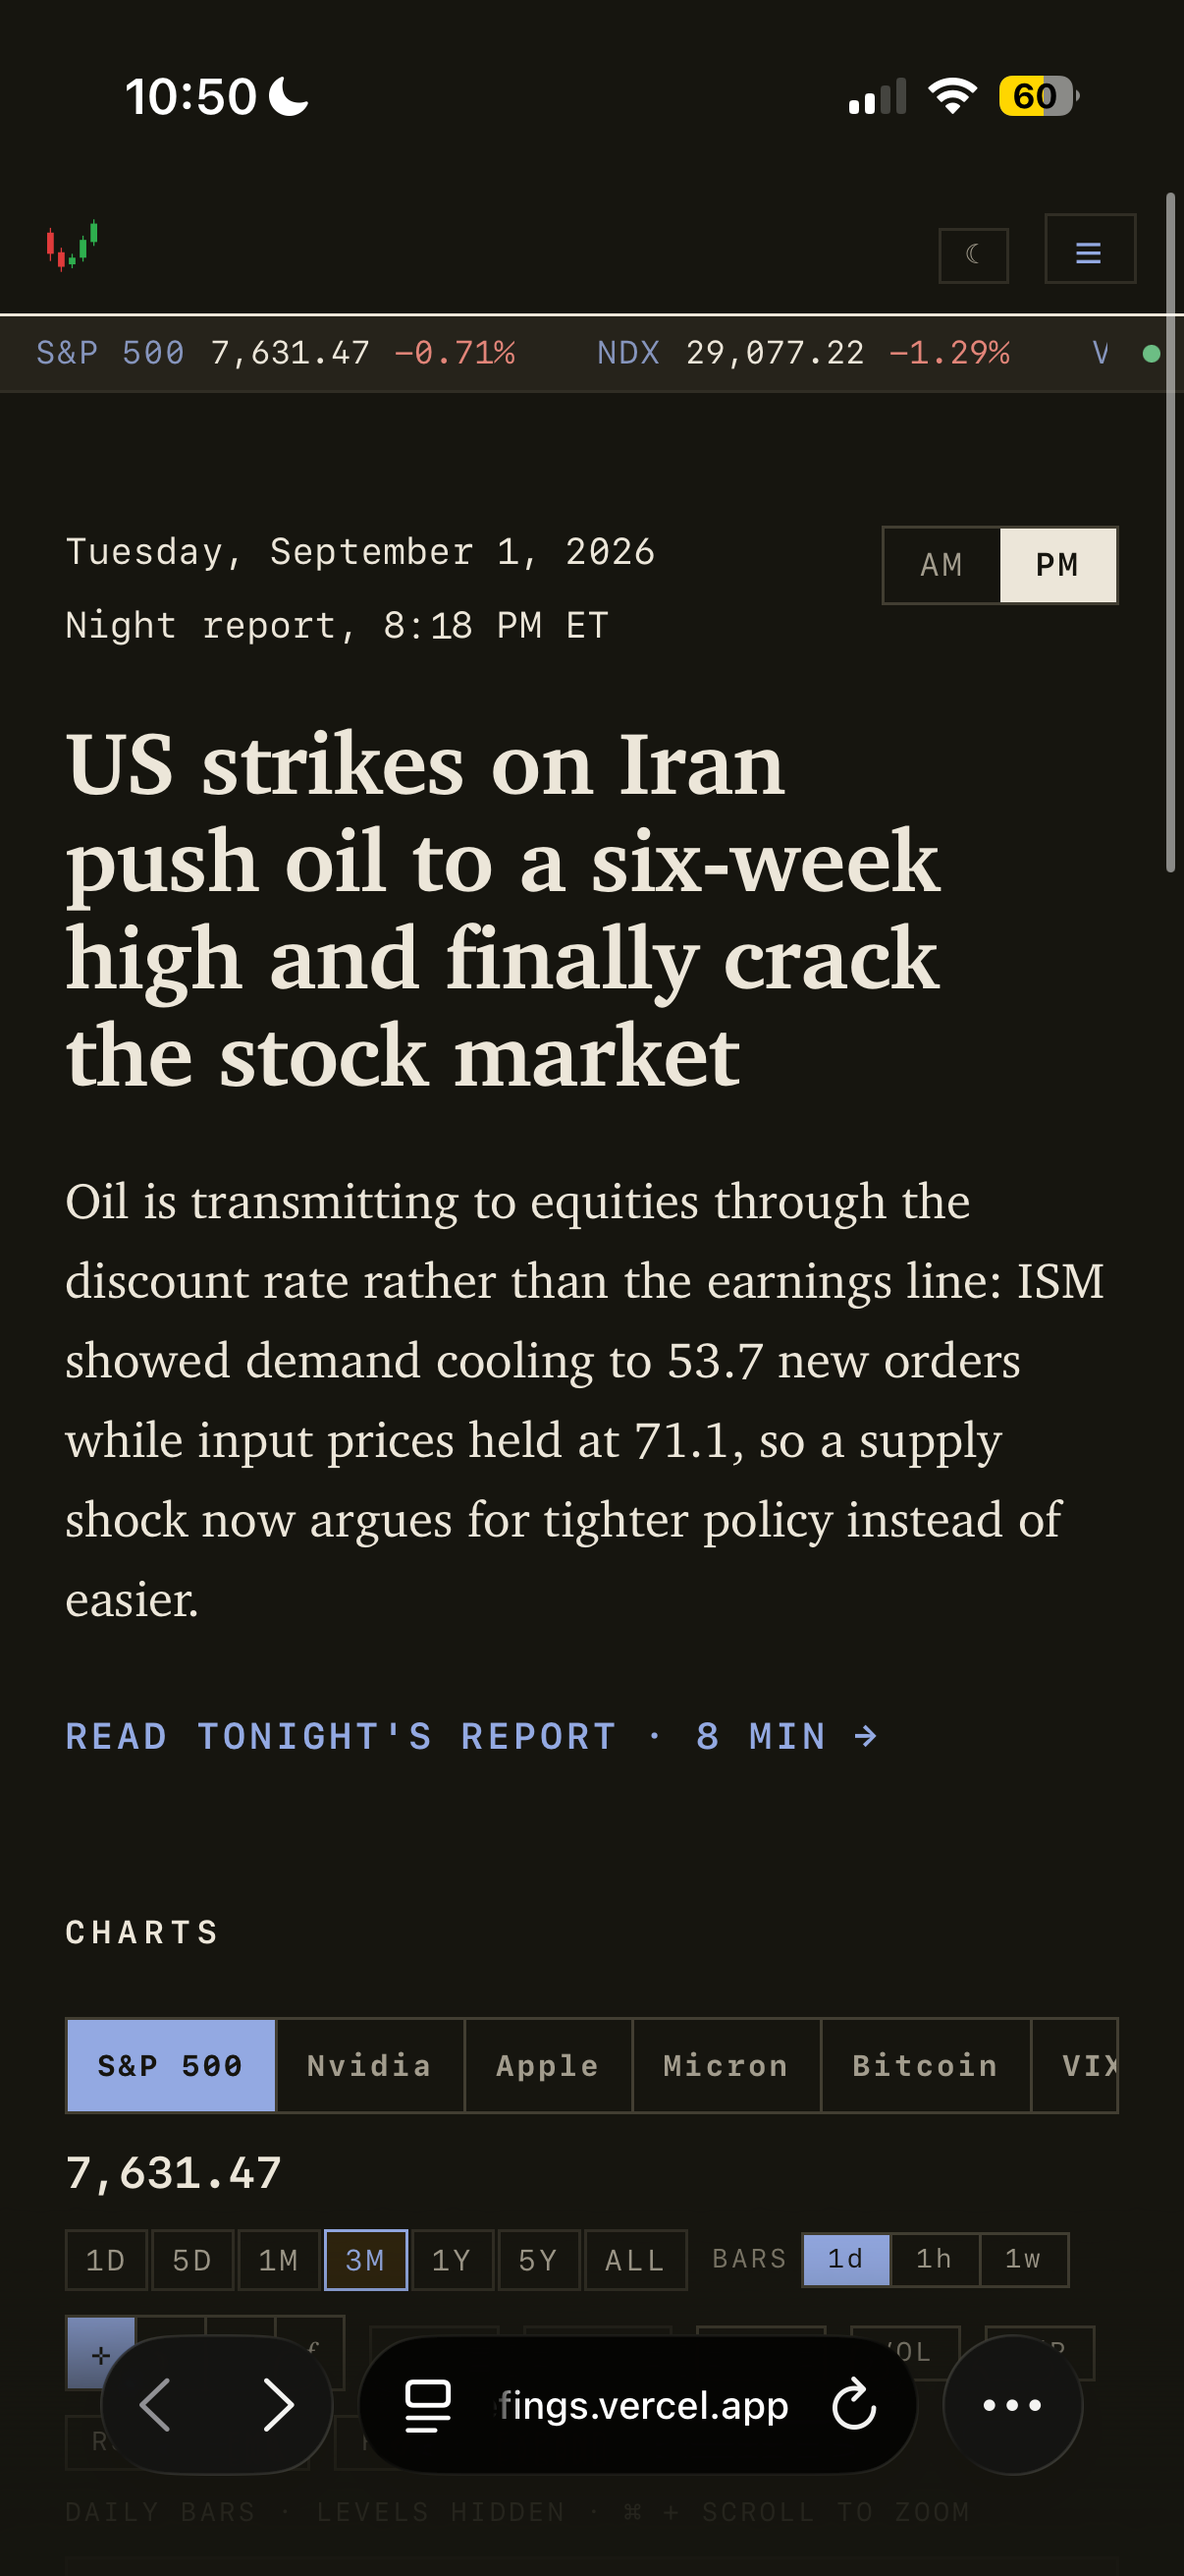
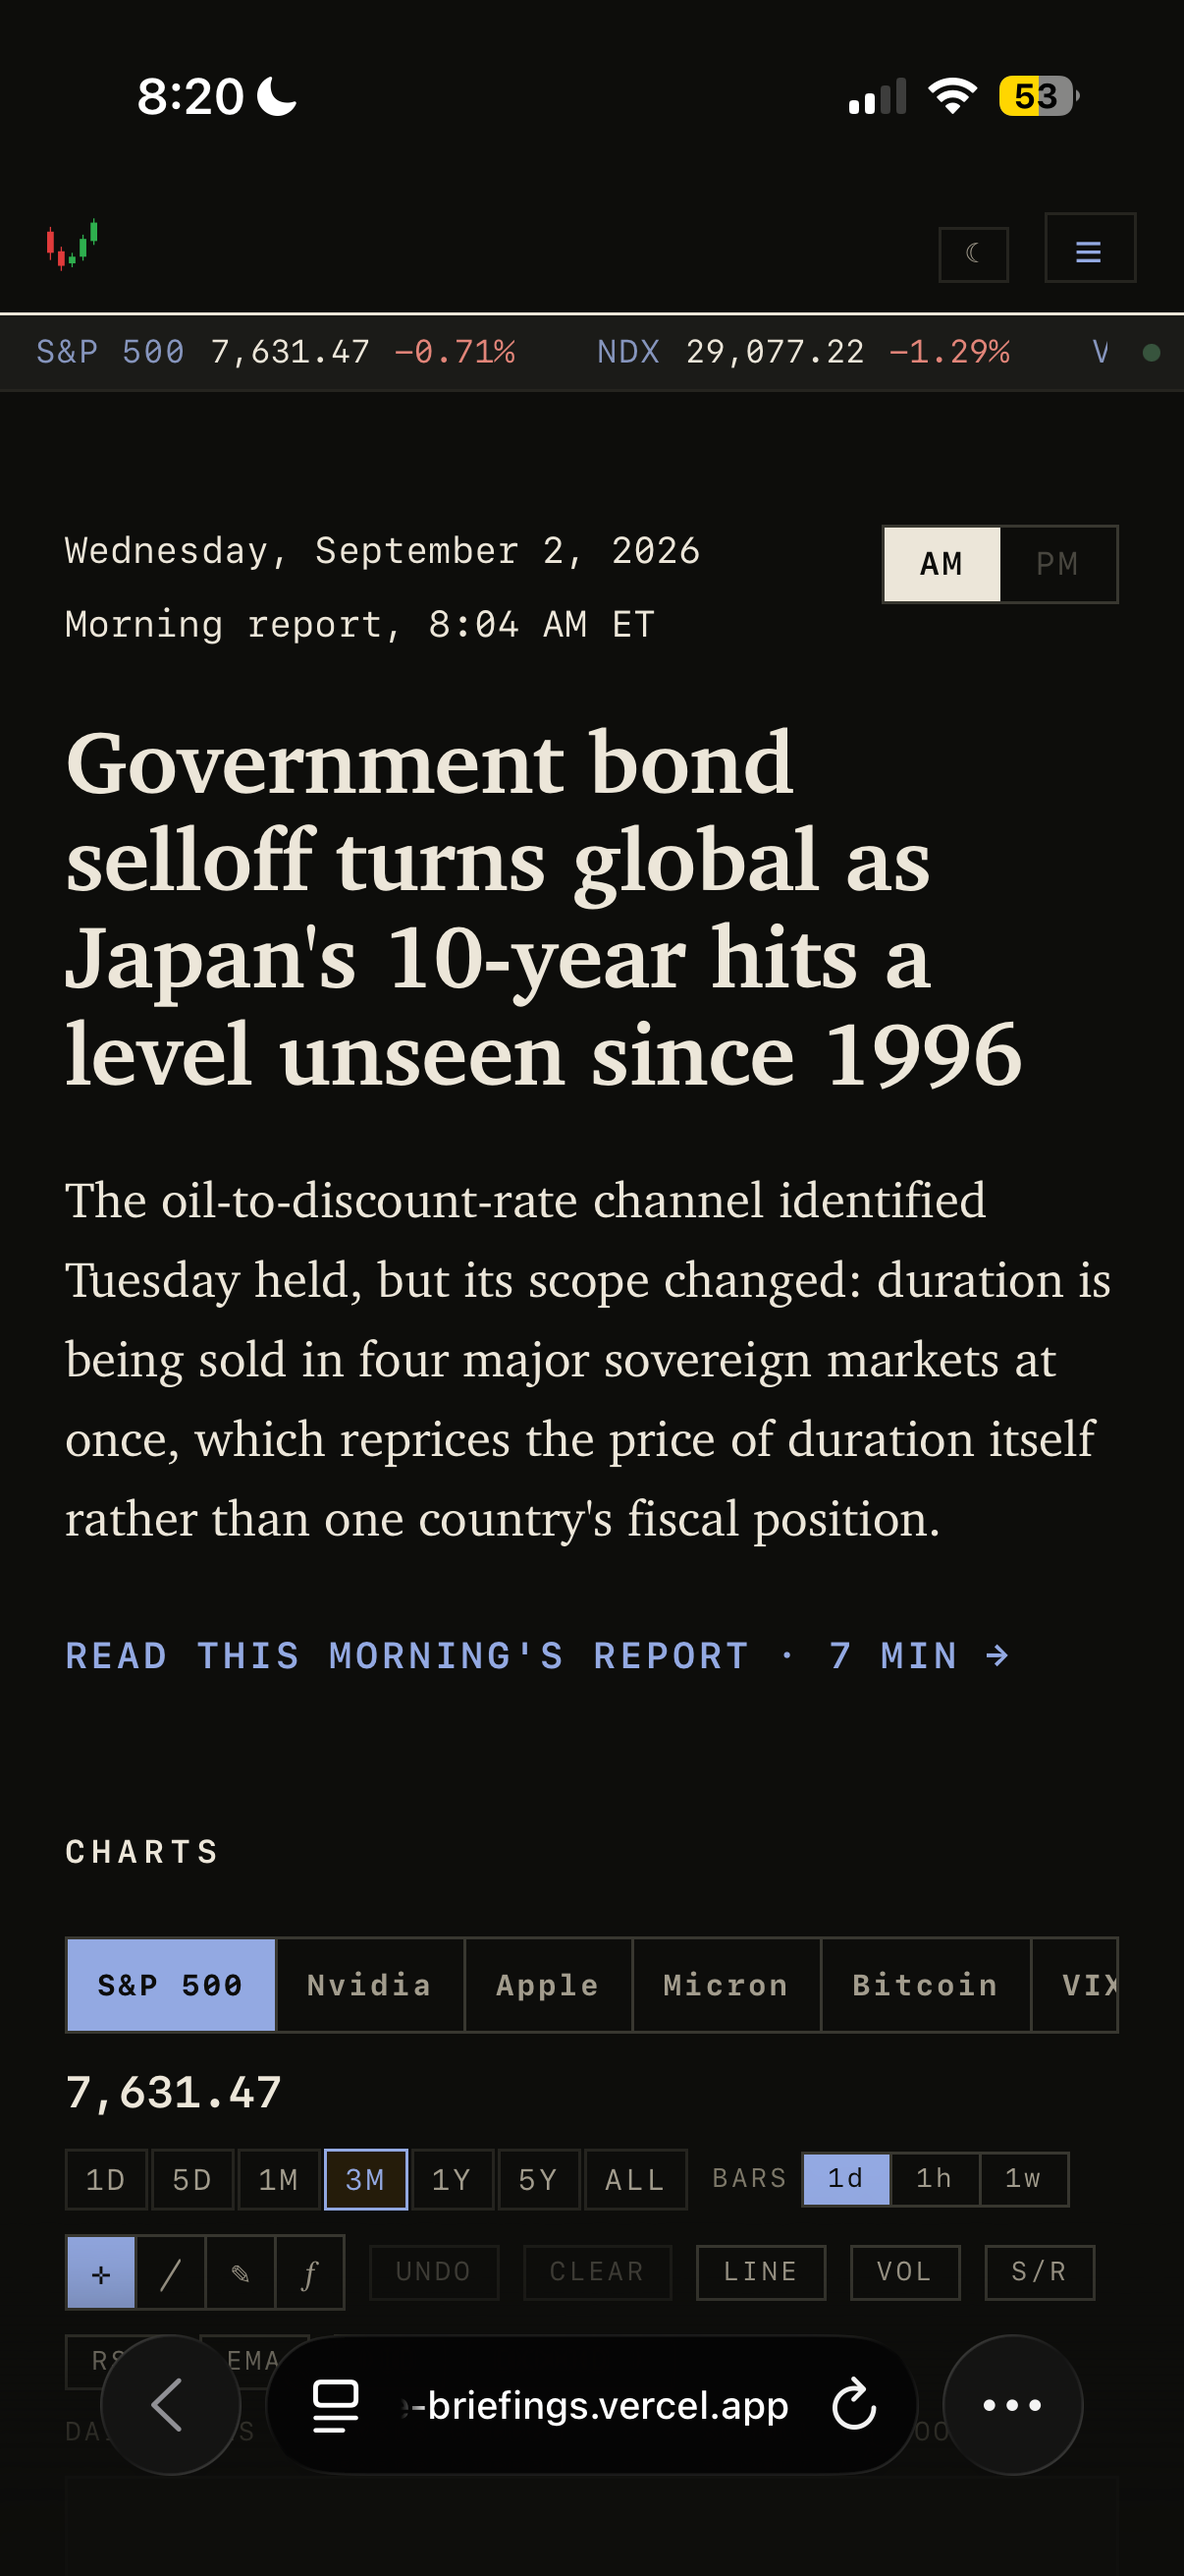
Retake the mobile shots on the September 2 morning report
Both phone screenshots move off the September 1 night report to the
morning one on the global bond selloff, and the full read now shows the
bulleted takeaways rather than a mid-report section.

Claude-Session: https://claude.ai/code/session_01K7nG38w3Ra8gD9mgbGiumu

diff --git a/src/data/case-studies.ts b/src/data/case-studies.ts
@@ -578,12 +578,12 @@ export const caseStudies: Record<string, CaseStudy> = {
           {
             src: "/projects/buy-side-mobile-today.png",
             width: 290,
-            alt: "The Today page on a phone: the ticker strip under the nav, the date with an AM/PM toggle set to PM, the night report's headline on US strikes on Iran pushing oil to a six-week high, its opening paragraph, a link to the eight minute read, and the charts panel starting below",
+            alt: "The Today page on a phone: the ticker strip under the nav, the date with an AM/PM toggle set to AM, the morning report's headline on a government bond selloff turning global as Japan's 10-year hits a level unseen since 1996, its opening paragraph, a link to the seven minute read, and the charts panel starting below",
           },
           {
             src: "/projects/buy-side-mobile-full-read.png",
             width: 290,
-            alt: "The full read on a phone: a methodology note in italics up top, the report's first section heading in blue capitals, the paragraph under it on the strikes and the oil settle, and the underlined source citations that follow",
+            alt: "The full read on a phone: a back link to all reports, the date as a heading, the time the report was generated, the headline, then three bulleted takeaways on the Japanese 10-year, the US Treasury yield and the split in September hike odds, with the body and its source citations below",
           },
         ],
       },
